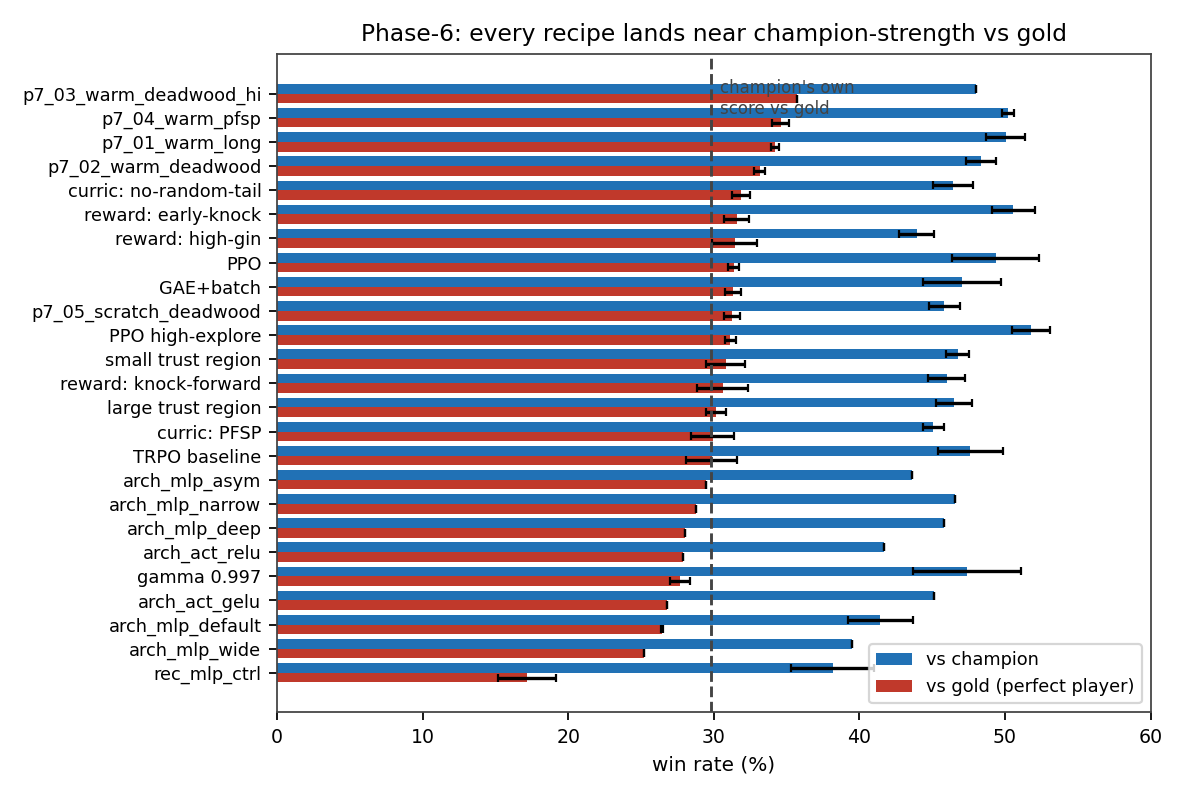
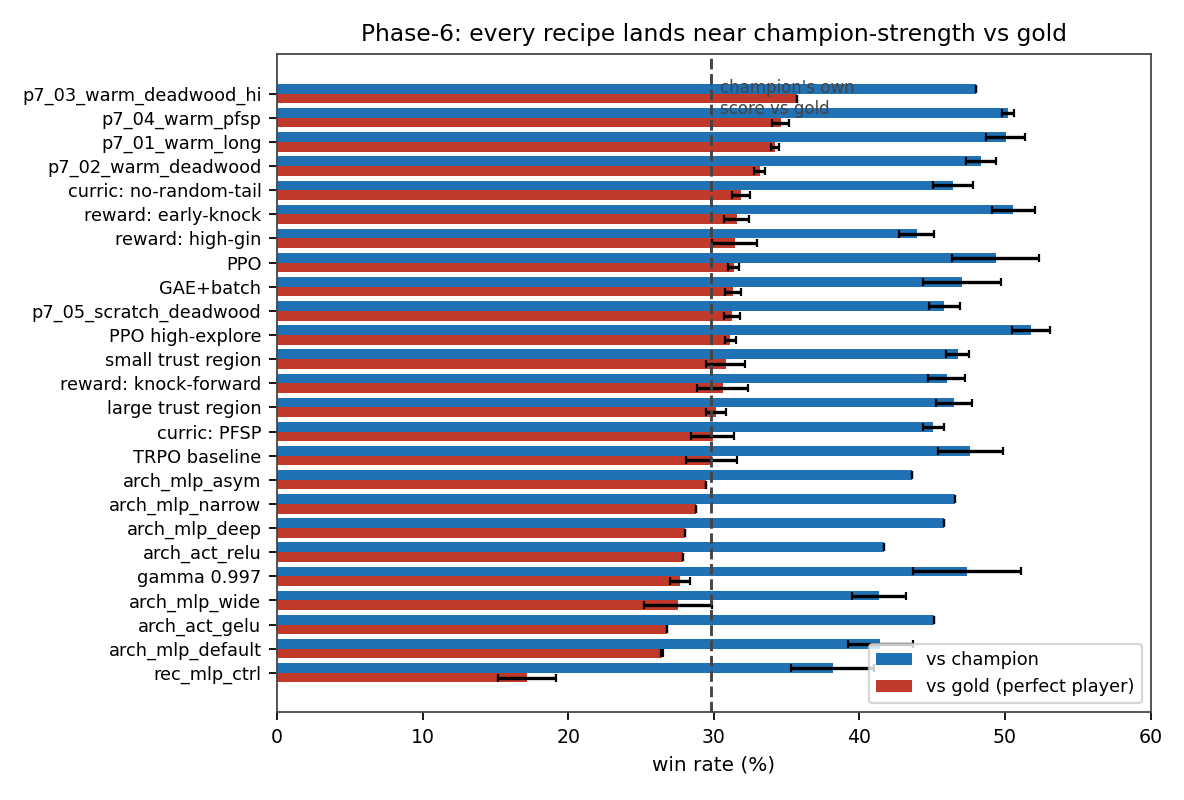
Phase-6 sweep: curriculum/algorithm/reward results + docs (2026-06-27T09:14Z)

diff --git a/docs/index.html b/docs/index.html
@@ -87,7 +87,7 @@ ol li,ul li{margin:4px 0;}
   <div class="kpibar">
     <div class="k"><div class="v">34%</div><div class="l">best agent vs the<br/>perfect player</div></div>
     <div class="k"><div class="v">&lt;2%</div><div class="l">how often the perfect<br/>player gins</div></div>
-    <div class="k"><div class="v">49+</div><div class="l">controlled training<br/>runs in the sweeps</div></div>
+    <div class="k"><div class="v">50+</div><div class="l">controlled training<br/>runs in the sweeps</div></div>
     <div class="k"><div class="v">62&times;</div><div class="l">faster LLM serving<br/>(scratch vs NFS)</div></div>
   </div>
   <div class="links">

diff --git a/sweep/curriculum/_arch_summary.md b/sweep/curriculum/_arch_summary.md
@@ -1,6 +1,6 @@
 # Phase-8 architecture sweep — evaluation vs the fixed expert
 
-_8 runs finished across 7 architectures. Win-rate is vs the fixed deterministic expert (benchmark-only)._
+_9 runs finished across 7 architectures. Win-rate is vs the fixed deterministic expert (benchmark-only)._
 
 ## Per architecture (mean over seeds)
 
@@ -10,14 +10,15 @@ _8 runs finished across 7 architectures. Win-rate is vs the fixed deterministic 
 | arch_mlp_narrow | 1 | 0.288 | 0.000 | +0.024 |
 | arch_mlp_deep | 1 | 0.280 | 0.000 | +0.015 |
 | arch_act_relu | 1 | 0.279 | 0.000 | +0.015 |
+| arch_mlp_wide | 2 | 0.276 | 0.024 | +0.011 |
 | arch_act_gelu | 1 | 0.268 | 0.000 | +0.004 |
 | arch_mlp_default | 2 | 0.265 | 0.001 | +0.000 |
-| arch_mlp_wide | 1 | 0.252 | 0.000 | -0.013 |
 
 ## Per run
 
 | run | arch | act | net | seed | win% vs expert | gin% | mean len | vs champ | vs random | secs |
 |---|---|---|---|---|---|---|---|---|---|---|
+| arch_mlp_wide_s1 | mlp | tanh | [512, 256] | 1 | 0.299 | 0.008 | 34.28 | 0.432 | 0.995 | 18615 |
 | arch_mlp_asym_s0 | mlp | tanh | [128, 64] | 0 | 0.295 | 0.010 | 34.18 | 0.436 | 0.990 | 10805 |
 | arch_mlp_narrow_s0 | mlp | tanh | [128, 64] | 0 | 0.288 | 0.002 | 33.73 | 0.466 | 0.988 | 12234 |
 | arch_mlp_deep_s0 | mlp | tanh | [256, 256, 128] | 0 | 0.280 | 0.004 | 34.26 | 0.458 | 0.991 | 16511 |